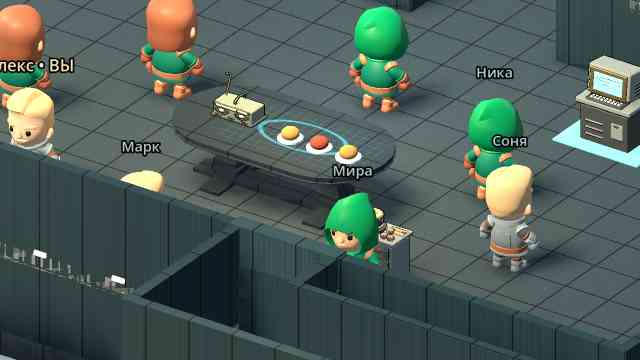
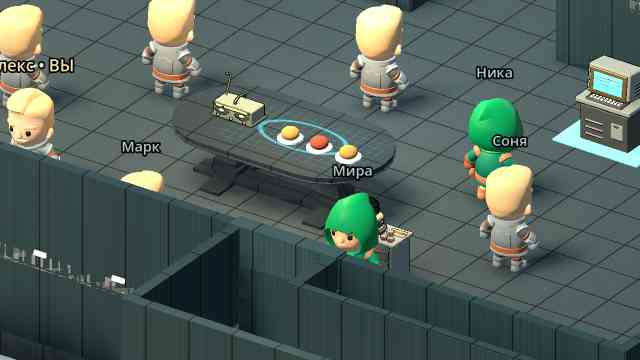
Bunker 0.49: refresh the in-game station shot

diff --git a/docs/ITERATION_49.md b/docs/ITERATION_49.md
@@ -54,7 +54,7 @@
   `steam-puff` стоит `alphaMode: BLEND`.
 - `gdparse` по изменённым скриптам, `test_release_config.py` — версия 0.49.
 - Godot CI: новый `tools/test_station_motion.gd` в общем прогоне, плюс прежние
-  проверки сцены и кадр `visual-stations`.
+  проверки сцены и кадр `visual-stations` (обновлён в `docs/previews/stations-ingame.jpg`).
 
 ## Ограничения
 
